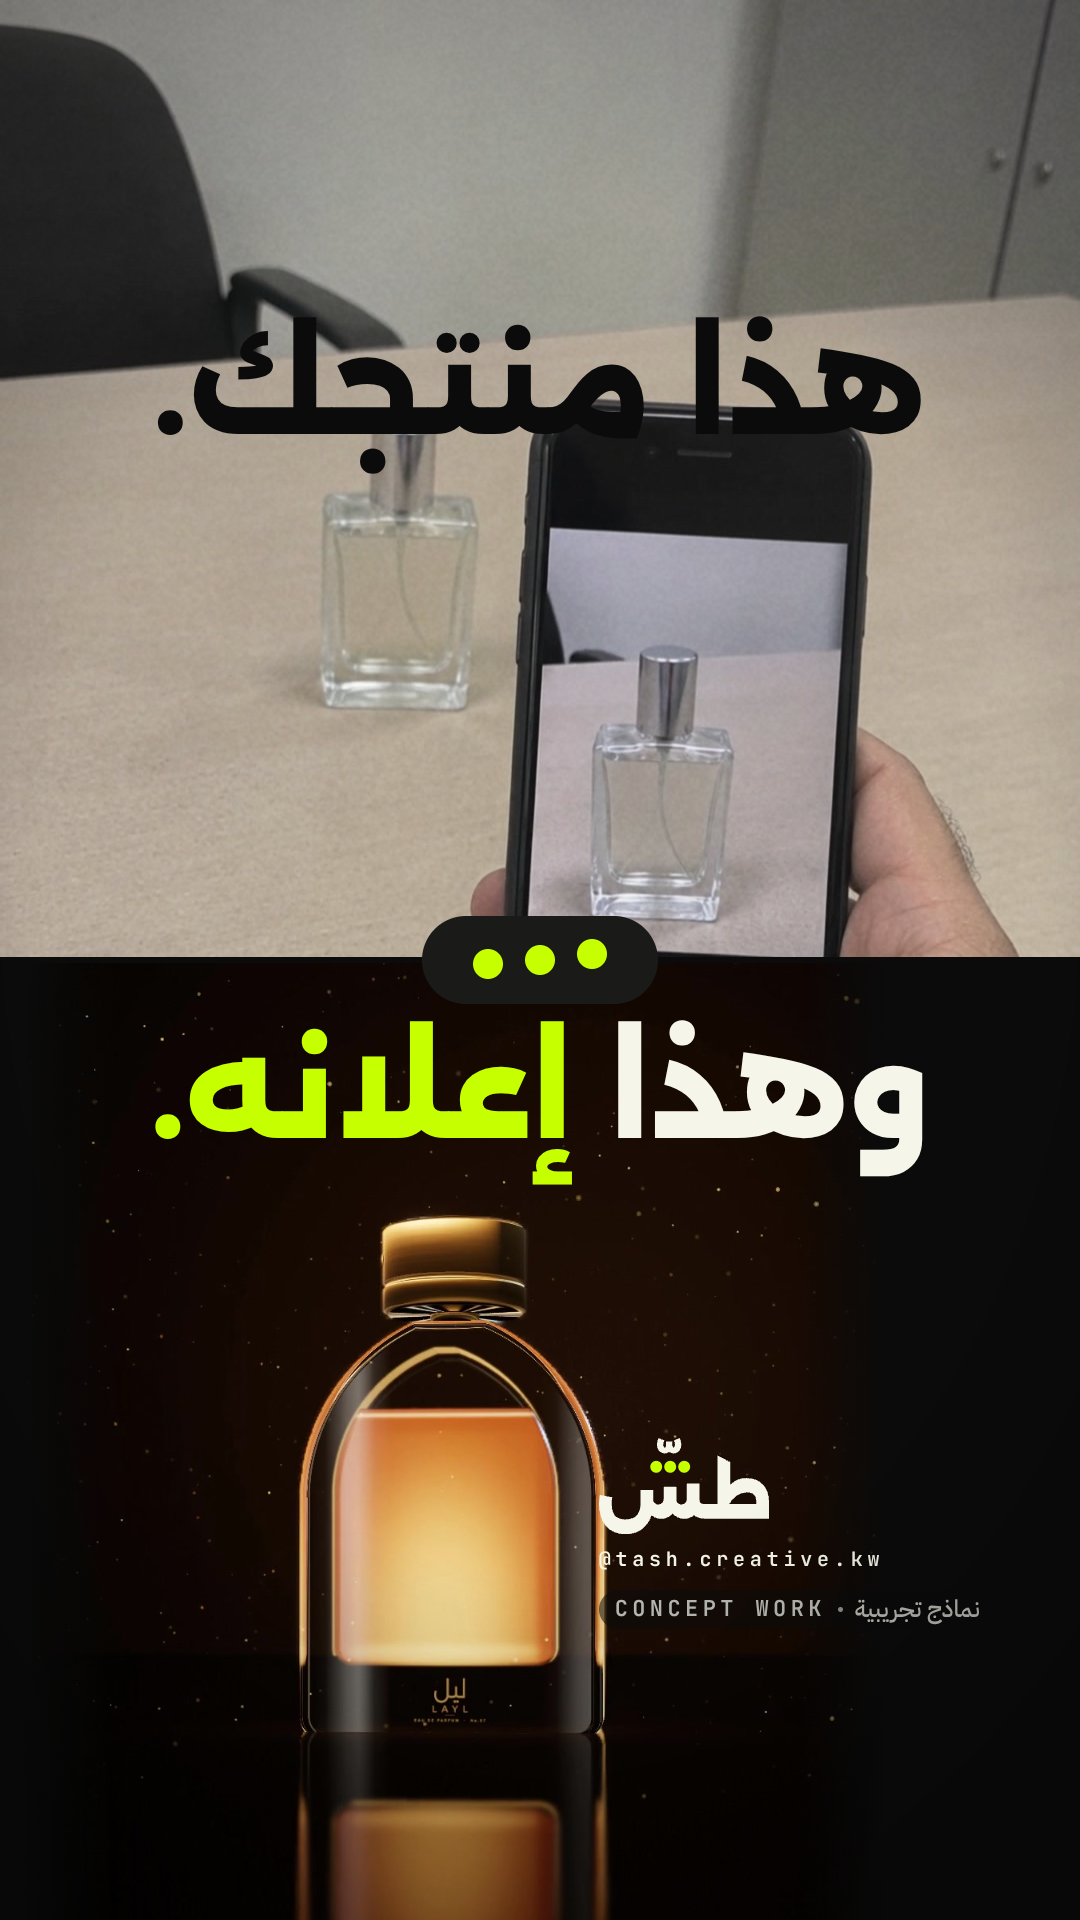
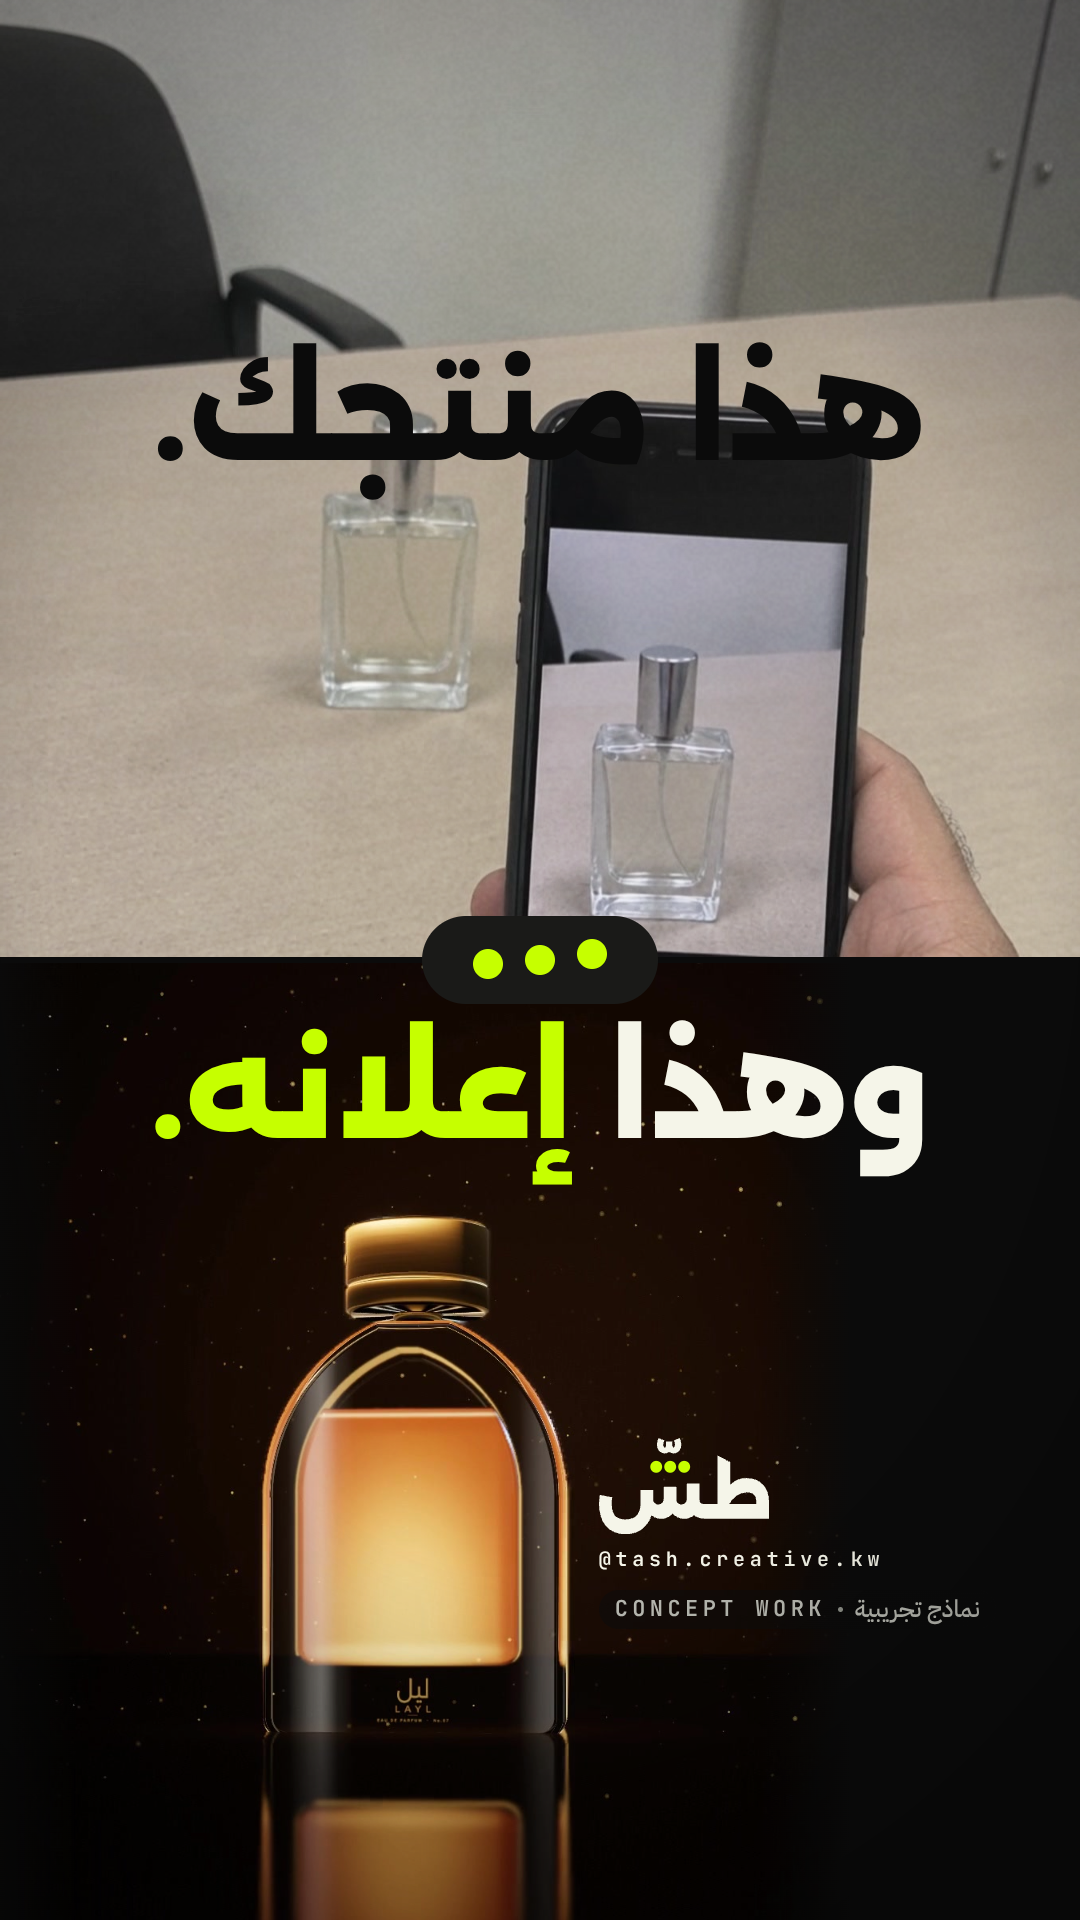
TASH: photoreal start frames for the burger and coffee concept ads (Higgsfield, GPT Image 2.6); launch-ad review in progress
Claude-Session: https://claude.ai/code/session_01V6x5TZsAm6X1rqhwpVNZeb

diff --git a/tash/04-launch-ad/src/main.js b/tash/04-launch-ad/src/main.js
@@ -27,18 +27,18 @@ const f2 = n => n.toFixed(2);
 // 9:16 keeps key text in x 72–1008, y 220–1500 (reel UI), right-rail clearance in the lower half.
 // 4:5 is a feed post: no platform chrome, 72 px margins, everything re-centred for the shorter frame.
 const LY = V ? {
-  heroTop: 262, hero: 136, slateTop: 1404, stepsTop: 222, card: { x: 100, y: 560 }, viewer: { cx: 540, cy: 760 },
+  heroTop: 232, hero: 128, askSize: 120, slateTop: 1404, stepsTop: 222, card: { x: 100, y: 560 }, viewer: { cx: 540, cy: 760 },
   ed: { x: 72, y: 1180, w: 936, h: 300 }, fmtTop: 1236, sizesTop: 1300, phone: { cx: 540, cy: 900, w: 520 },
   bubBottom: 1452, bubR: 888, bubL: 120, askTop: 1080, replyCy: 962, subTop: 1112, pillTop: 1214, logoHdr: { cy: 468, s: 0.5 }, logoCta: { cy: 640, s: 0.5 }, typeLow: 1250,
   sting: { logoW: 640, cy: 0.46 },
 } : {
-  heroTop: 96, hero: 128, slateTop: 1176, stepsTop: 62, card: { x: 100, y: 268 }, viewer: { cx: 540, cy: 560 },
+  heroTop: 96, hero: 120, askSize: 120, slateTop: 1176, stepsTop: 62, card: { x: 100, y: 268 }, viewer: { cx: 540, cy: 560 },
   ed: { x: 72, y: 980, w: 936, h: 280 }, fmtTop: 1010, sizesTop: 1066, phone: { cx: 540, cy: 690, w: 410 },
   bubBottom: 1262, bubR: 1008, bubL: 72, askTop: 820, replyCy: 662, subTop: 790, pillTop: 884, logoHdr: { cy: 238, s: 0.42 }, logoCta: { cy: 382, s: 0.42 }, typeLow: 1010,
   sting: { logoW: 560, cy: 0.42 },
 };
 // vertical focus used when 1080×1920 footage is cover-cropped into 4:5 (0 = keep top, 1 = keep bottom)
-const FY = { HOOK: 0.46, GLORY: 0.52, BURGER: 0.62, COFFEE: 0.26, RING: 0.36, SPRAY: 0.40, PROD: 0.52, EDIT: 0.5, DIWAN: 0.22, CAFE: 0.30, CAR: 0.24, ASK: 0.12 };
+const FY = { HOOK: 0.20, GLORY: 0.52, BURGER: 0.62, COFFEE: 0.26, RING: 0.36, SPRAY: 0.40, PROD: 0.52, EDIT: 0.5, DIWAN: 0.22, CAFE: 0.30, CAR: 0.24, ASK: 0.12 };
 const fy = id => (V ? 0.5 : FY[id] ?? 0.5);
 
 // ---------------------------------------------------------------------------------------------- canvas helpers
@@ -102,7 +102,7 @@ for (const w of [gW1, gW2]) css(w, { display: 'inline-block' });
 css(gW2, { color: COL.lime, transformOrigin: '100% 62%' }); // grows out of the gap next to «وهذا», never over it
 // 4:5: the feed crop puts the office chair under the left end of a centred hook line → set both lines from the RTL
 // start side (right margin) so the contrast pair still sits in the same place
-if (!V) for (const e of [hookT, gloT]) css(e, { textAlign: 'right', left: '72px', right: '72px' });
+for (const e of [hookT, gloT]) css(e, { textAlign: 'right', left: '72px', right: (V ? 80 : 72) + 'px' });
 
 // montage slate (category + the honesty line)
 const slate = el('div', 'slate'); css(slate, { top: LY.slateTop + 'px' });
@@ -201,18 +201,19 @@ for (const B of BUB) { B.w = B.b.offsetWidth; B.h = B.b.offsetHeight; }
 const stingRoot = document.getElementById('sting');
 const sting = createSting(stingRoot, { width: W, height: H, logoW: LY.sting.logoW, cy: LY.sting.cy, theme: 'ink', background: false });
 const [stSvg, stTag, stHd] = sting.el.children;
-const askT = el('div', 'hero ar', top); askT.textContent = 'عندك مشروع؟'; css(askT, { top: LY.askTop + 'px', fontSize: LY.hero + 'px', color: COL.paper });
+const askT = el('div', 'hero ar', top); askT.textContent = 'عندك مشروع؟'; css(askT, { top: LY.askTop + 'px', fontSize: LY.askSize + 'px', color: COL.paper, right: (V ? 24 : 0) + 'px' });
 const askW = words(askT);
 const reply = el('div', 'reply ar', top); reply.textContent = 'خلّ إعلانك علينا.';
-css(reply, { fontSize: (V ? 96 : 88) + 'px' });
+css(reply, { fontSize: (V ? 90 : 88) + 'px' });
 const ctaW = words(reply); tail(reply, 'l', COL.lime, 1.3);
 const RW = reply.offsetWidth, RH = reply.offsetHeight;
-css(reply, { left: ((W - RW) / 2) + 'px', top: (LY.replyCy - RH / 2) + 'px' });
+css(reply, { left: ((W - RW) / 2 - (V ? 14 : 0)) + 'px', top: (LY.replyCy - RH / 2) + 'px' }); // 9:16: right edge clear of the action rail
 const subT = el('div', 'sup ar', top, 'اطلب إعلانك بالخاص'); css(subT, { top: LY.subTop + 'px', fontSize: '58px', color: '#D9DACF' });
 const subW = words(subT);
 const pill = el('div', 'handle', top, '@tash.creative.kw'); css(pill, { top: LY.pillTop + 'px' });
 
 // finish
+const vignetteEl = document.getElementById('vignette');
 const grainCv = document.getElementById('grain'); grainCv.width = W; grainCv.height = H;
 if (q.has('guides')) {
   const gd = el('div', 'guides', document.getElementById('stage'));
@@ -399,7 +400,7 @@ async function drawAsk(t) {
   const kin = E.outCubic(prog(t, s.at, 0.5)), kout = E.inOutSine(prog(t, s.end - 0.12, 0.3));
   g.filter = 'blur(5px) saturate(0.85)'; full(img, 'ASK', { zoom: 1.08 + 0.03 * prog(t, s.at, 1.5) }); g.filter = 'none';
   gradeAI(); ink(lerp(1, 0.5, kin) + 0.5 * kout);
-  const gr = g.createLinearGradient(0, 0, 0, H * 0.62); gr.addColorStop(0, 'rgba(11,11,11,.9)'); gr.addColorStop(0.55, 'rgba(11,11,11,.55)'); gr.addColorStop(1, 'rgba(11,11,11,0)');
+  const gr = g.createLinearGradient(0, 0, 0, H * 0.62); gr.addColorStop(0, 'rgba(11,11,11,.94)'); gr.addColorStop(0.55, 'rgba(11,11,11,.78)'); gr.addColorStop(1, 'rgba(11,11,11,0)');
   g.fillStyle = gr; g.globalAlpha = kin; g.fillRect(0, 0, W, H); g.globalAlpha = 1;
 }
 
@@ -478,7 +479,7 @@ function uiFrame(t, sh) {
     for (let j = i + 1; j < BUB.length; j++) y -= (BUB[j].h + 20) * E.outExpo(prog(t, BUB[j].at, 0.32));
     const x = B.side === 'r' ? LY.bubR - B.w : LY.bubL;
     const pop = t < B.at + 0.6 ? spring(clamp((t - B.at) / 0.6), { freq: 2, damp: 12 }) : 1;
-    const ck = E.inCubic(prog(t, c0 + 0.02 + (BUB.length - 1 - i) * 0.05, c1 - c0 - 0.1));
+    const ck = E.inOutCubic(prog(t, c0 + (BUB.length - 1 - i) * 0.04, c1 - c0 - 0.08));
     const tx = lerp(x, W / 2 - B.w / 2, ck), ty = lerp(y, H * LY.sting.cy - 10 + stOff - B.h / 2, ck);
     css(B.b, { left: f2(tx) + 'px', top: f2(ty) + 'px', transform: `scale(${f2(lerp(0.55 + 0.45 * pop, 0.18, ck))})`, opacity: f2(clamp((t - B.at) / 0.08) * (1 - ck * ck)) });
   });
@@ -499,12 +500,12 @@ function uiFrame(t, sh) {
     css(stTag, { opacity: f2(1 - tk) }); css(stHd, { opacity: f2((t < S.ASK.at ? clamp((t - T0 - 2.1) / 0.7) : 1) * (1 - tk)) });
   }
   const aOn = t >= S.ASK.at && t < S.CTA.at + 0.3; show(askT, aOn);
-  if (aOn) { riseIn(askW, t, EV.ask, { gap: 0.12, dur: 0.45, rise: 60, blur: 9 }); exitUp(askW, t, S.CTA.at - 0.02); }
+  if (aOn) { riseIn(askW, t, EV.ask, { gap: 0.12, dur: 0.45, rise: 60, blur: 9 }); exitUp(askW, t, S.CTA.at - 0.21); }
   const cOn = t >= S.CTA.at; show(reply, cOn); show(subT, cOn); show(pill, cOn);
   if (cOn) { // the reply pops like a sent message (from its tail), then its words resolve
     const pk = spring(clamp((t - EV.ctaLine) / 0.7), { freq: 2, damp: 12 });
     const cc = 1 + 0.02 * prog(t, S.CTA.at + 0.5, C.duration - S.CTA.at - 0.5); // slow creep of the end card
-    css(reply, { transform: `scale(${(cc * (0.4 + 0.6 * pk)).toFixed(4)})`, opacity: f2(clamp((t - EV.ctaLine) / 0.07)) });
+    css(reply, { transform: `scale(${(cc * (0.4 + 0.6 * pk)).toFixed(4)})`, opacity: t >= EV.ctaLine ? '1' : '0' }); // visible ON the cut frame (no empty-ink frame)
     riseIn(ctaW, t, EV.ctaLine - 0.02, { gap: 0.07, dur: 0.4, rise: 24, blur: 6 }); // words already resolving as the bubble pops (no blank-lime frame)
     riseIn(subW, t, EV.ctaSub, { gap: 0.07, dur: 0.45, rise: 30, blur: 6 });
     const hk = tw(t, EV.ctaHandle, 0.6, E.outExpo);
@@ -522,15 +523,15 @@ async function drawPoster() {
   const a = await F.frame('ai-s1_hook', 0.9), b = await F.frame('layl-final_10.50-12.60', 0.2);
   const half = H / 2;
   g.save(); g.beginPath(); g.rect(0, 0, W, half); g.clip();
-  g.filter = 'saturate(0.8) contrast(0.93) brightness(1.03)'; cover(a, 0, -170, W, 1920 * 0.98, { fx: 0.85 }); g.filter = 'none'; phoneNoise(3, 0.08); g.restore();
+  g.filter = 'saturate(0.8) contrast(0.93) brightness(1.03)'; cover(a, 0, -10, W, 1920); g.filter = 'none'; phoneNoise(3, 0.08); g.restore();
   g.save(); g.beginPath(); g.rect(0, half, W, H - half); g.clip(); ink();
   const sc = 0.8, bx = 418 - 540 * sc, by = 1212 - 840 * sc; cover(b, bx, by, W * sc, 1920 * sc);
   for (const [x0, x1] of [[bx, bx + 90], [bx + W * sc, bx + W * sc - 90]]) { const gr = g.createLinearGradient(x0, 0, x1, 0); gr.addColorStop(0, COL.ink); gr.addColorStop(1, 'rgba(11,11,11,0)'); g.fillStyle = gr; g.fillRect(Math.min(x0, x1), half, 90, H - half); }
   g.restore();
   g.fillStyle = COL.ink; g.fillRect(0, half - 3, W, 6);
   const P = el('div', '', top); P.style.cssText = 'position:absolute;inset:0';
-  const t1 = el('div', 'hero ar', P, 'هذا منتجك.'); css(t1, { top: '326px', fontSize: '132px', color: COL.ink });
-  const t2 = el('div', 'hero ar', P); css(t2, { top: (half + 44) + 'px', fontSize: '132px', color: COL.paper });
+  const t1 = el('div', 'hero ar', P, 'هذا منتجك.'); css(t1, { top: '236px', fontSize: '128px', color: COL.ink, textAlign: 'right', left: '72px', right: '80px' });
+  const t2 = el('div', 'hero ar', P); css(t2, { top: (half + 44) + 'px', fontSize: '128px', color: COL.paper, textAlign: 'right', left: '72px', right: '80px' });
   el('span', '', t2, 'وهذا '); const w2 = el('span', '', t2, 'إعلانه.'); css(w2, { color: COL.lime });
   // the dots on the seam: "someone is typing…"
   const d = el('div', '', P); d.style.cssText = `position:absolute;left:50%;top:${half - 44}px;transform:translateX(-50%);width:236px;height:88px;border-radius:44px;background:${COL.char};display:flex;align-items:center;justify-content:center;gap:22px`;
@@ -547,6 +548,7 @@ async function seek(t) {
   if (POSTER) { await drawPoster(); grain(grainCv, 7, { amount: 26, scale: 2 }); return; }
   const sh = shotAt(t);
   const cover_ = dotsWipe(t); // UI under the wipe is revealed only where the dots have already passed
+  { const m = EV.dotsWipe[1], vk = clamp(prog(t, m - 0.14, 0.1)) * (1 - clamp(prog(t, m + 0.06, 0.12))); vignetteEl.style.opacity = f2(1 - vk); }
   css(ui, { clipPath: cover_ < 0 ? 'none' : `inset(0 0 0 ${f2(Math.min(W, cover_))}px)` });
   g.globalAlpha = 1; g.globalCompositeOperation = 'source-over'; g.filter = 'none';
   switch (sh.id) {

diff --git a/tash/04-launch-ad/src/audio.py b/tash/04-launch-ad/src/audio.py
@@ -72,7 +72,7 @@ DUM  = 'x.....x...x.....'
 TAK  = '...x.xx.x..x.xx.'
 HAT  = '..x...x...x...x.'
 def groove(bar, var=0, light=False):
-    for (t, v) in G.steps(bar, KICK): m.add(kick(150, 44, 0.5, 1.0, 0.4), t, gain=0.75 * v * (0.75 if light else 1), bus='music')
+    for (t, v) in G.steps(bar, KICK): m.add(kick(150, 44, 0.5, 1.0, 0.4), t, gain=0.52 * v * (0.75 if light else 1), bus='music')
     for (t, v) in G.steps(bar, CLAP): m.add(claps_ensemble(8, 0.36, seed_=bar * 7 + int(t * 10) % 5), t + r.uniform(-0.004, 0.004), gain=0.55 * v, bus='music')
     if not light:
         for (t, v) in G.steps(bar, KHAL): m.add(claps_ensemble(5, 0.3, seed_=31 + bar), t + 0.006, gain=0.32, bus='music')
@@ -118,7 +118,7 @@ P_RIM  = '..x...x...x..x.x'
 P_SHK  = 'xxxxxxxxxxxxxxxx'
 BASSL = [nf('D2'), nf('D2'), nf('F2'), nf('D2'), nf('Eb2'), nf('D2'), nf('C2'), nf('A1')]
 for bar in range(4, 7):
-    for (t, v) in G.steps(bar, P_KICK): m.add(kick(130, 46, 0.35, 0.6, 0.5), t, gain=0.5, bus='music')
+    for (t, v) in G.steps(bar, P_KICK): m.add(kick(130, 46, 0.35, 0.6, 0.5), t, gain=0.34, bus='music')
     for (t, v) in G.steps(bar, CLAP): m.add(claps_ensemble(6, 0.32, seed_=50 + bar), t, gain=0.42, bus='music')
     for k, (t, v) in enumerate(G.steps(bar, P_RIM)): m.add(rim(), t + r.uniform(-0.004, 0.004), gain=0.22 * (1 - 0.1 * (k % 2)), pan=-0.3, bus='music')
     for k, (t, v) in enumerate(G.steps(bar, P_SHK)): m.add(shaker(0.1), t, gain=0.09 * (1.0 if k % 4 == 2 else 0.6), pan=0.35, bus='music')
@@ -154,16 +154,20 @@ m.add(pad([nf('D3'), nf('A3'), nf('D4'), nf('F#4')], 3.6, cutoff=1300, attack=0.
 TAILP = [('A', 0), ('Bb', 0.5), ('A', 1.0), ('G', 1.5), ('F#', 2.0), ('Eb', 2.5), ('D', 3.0)]
 for k, (n, b) in enumerate(TAILP): m.add(pluck(HIJAZ[n], 1.3, bright=0.45), SH['ASK']['at'] + b * B * 0.5 + 0.0, gain=0.30, pan=-0.1, bus='music')
 for bar in (10, 11):
-    for (t, v) in G.steps(bar, '....x.......x...'): m.add(claps_ensemble(6, 0.3, seed_=90 + bar), t, gain=0.28, bus='music')
-    for (t, v) in G.steps(bar, 'x.....x...x.....'): m.add(mirwas_dum(), t, gain=0.24, pan=-0.2, bus='music')
-    for (t, v) in G.steps(bar, '...x.x....x..x..'): m.add(mirwas_tak(), t, gain=0.16, pan=0.25, bus='music')
-    m.add(sub808(nf('D1'), 1.0, decay=0.35), G.t(bar), gain=0.40, bus='bass')
+    rd = 1.0 if bar == 10 else 0.75   # bar 11 sits under the CTA: a reading dip
+    for (t, v) in G.steps(bar, '....x.......x...'): m.add(claps_ensemble(6, 0.3, seed_=90 + bar), t, gain=0.28 * rd, bus='music')
+    for (t, v) in G.steps(bar, 'x.....x...x.....'): m.add(mirwas_dum(), t, gain=0.24 * rd, pan=-0.2, bus='music')
+    for (t, v) in G.steps(bar, '...x.x....x..x..'): m.add(mirwas_tak(), t, gain=0.16 * rd, pan=0.25, bus='music')
+    m.add(sub808(nf('D1'), 1.0, decay=0.35), G.t(bar), gain=0.40 * rd, bus='bass')
 # TASH replies: a warm pop + glass ting as the lime bubble lands, then the cadence resolves on D (bar 11)
 m.add(pop(420, 1250, 0.08), EV['ctaLine'], gain=0.6, bus='sfx')
 m.add(bell(nf('D6'), 1.6, 0.7), EV['ctaLine'] + 0.02, gain=0.18, bus='sfx')
 m.add(stab([nf('D3'), nf('A3'), nf('D4'), nf('F#4'), nf('A4')], 1.6, 1800), G.t(11), gain=0.30, bus='music')
 m.add(pad([nf('D2'), nf('A2'), nf('D3'), nf('F#3'), nf('A3')], DUR - G.t(11), cutoff=1600, attack=0.05, release=1.2), G.t(11), gain=0.30, bus='music')
 m.add(pluck(nf('D5'), 1.8, bright=0.4), G.t(11, 2.0), gain=0.22, bus='music')
+m.add(mirwas_dum(), G.t(12), gain=0.16, pan=-0.2, bus='music')
+m.add(pluck(nf('D4'), 1.6, bright=0.35), G.t(12), gain=0.20, pan=0.1, bus='music')
+m.add(pluck(nf('A3'), 1.4, bright=0.3), G.t(12, 1.0), gain=0.14, pan=-0.1, bus='music')
 PULSE2 = DUR - 1.25  # the logo's dots type once more in the end hold (picture: main.js)
 for k, dt in enumerate((0.18, 0.30, 0.42)): m.add(tick([2600, 2900, 3200][k]), PULSE2 + dt, gain=0.20 - 0.02 * k, pan=[0.2, 0, -0.2][k], bus='sfx')
 
@@ -179,10 +183,10 @@ def gap(b, a0, a1, fade_s=0.004):
     b[i0 - f:i0] *= np.linspace(1, 0, f)[:, None]; b[i0:i1] = 0
     return b
 m.process_bus('music', lambda b: gap(b * (side * pre * sting_dip)[:, None], EV['drop'] - 0.07, EV['drop'] - 0.002))
-m.process_bus('bass', lambda b: lp(b * (pre * sting_dip)[:, None], 260, order=2) + hp(sat(lp(b, 900) * 2.0, 2.0), 160) * 0.18)  # phone-audible harmonics on the 808
+m.process_bus('bass', lambda b: lp(b * (pre * sting_dip)[:, None], 260, order=2) * 0.6 + hp(sat(lp(b, 900) * 2.0, 2.0), 160) * 0.3)  # phone-audible harmonics on the 808
 m.process_bus('sfx', lambda b: gap(peak_eq(b, 3500, -2.5, 1.2), EV['drop'] - 0.07, EV['drop'] - 0.004))
 m.process_bus('amb', lambda b: b)
-end_fade = np.ones(N); nf_ = n_(0.25); end_fade[-nf_:] = np.linspace(1, 0, nf_) ** 1.5
+end_fade = np.ones(N); nf_ = n_(0.6); end_fade[-nf_:] = np.linspace(1, 0, nf_) ** 1.5
 for k in list(m.buses):
     m.process_bus(k, lambda b: b * end_fade[:len(b), None])
 
